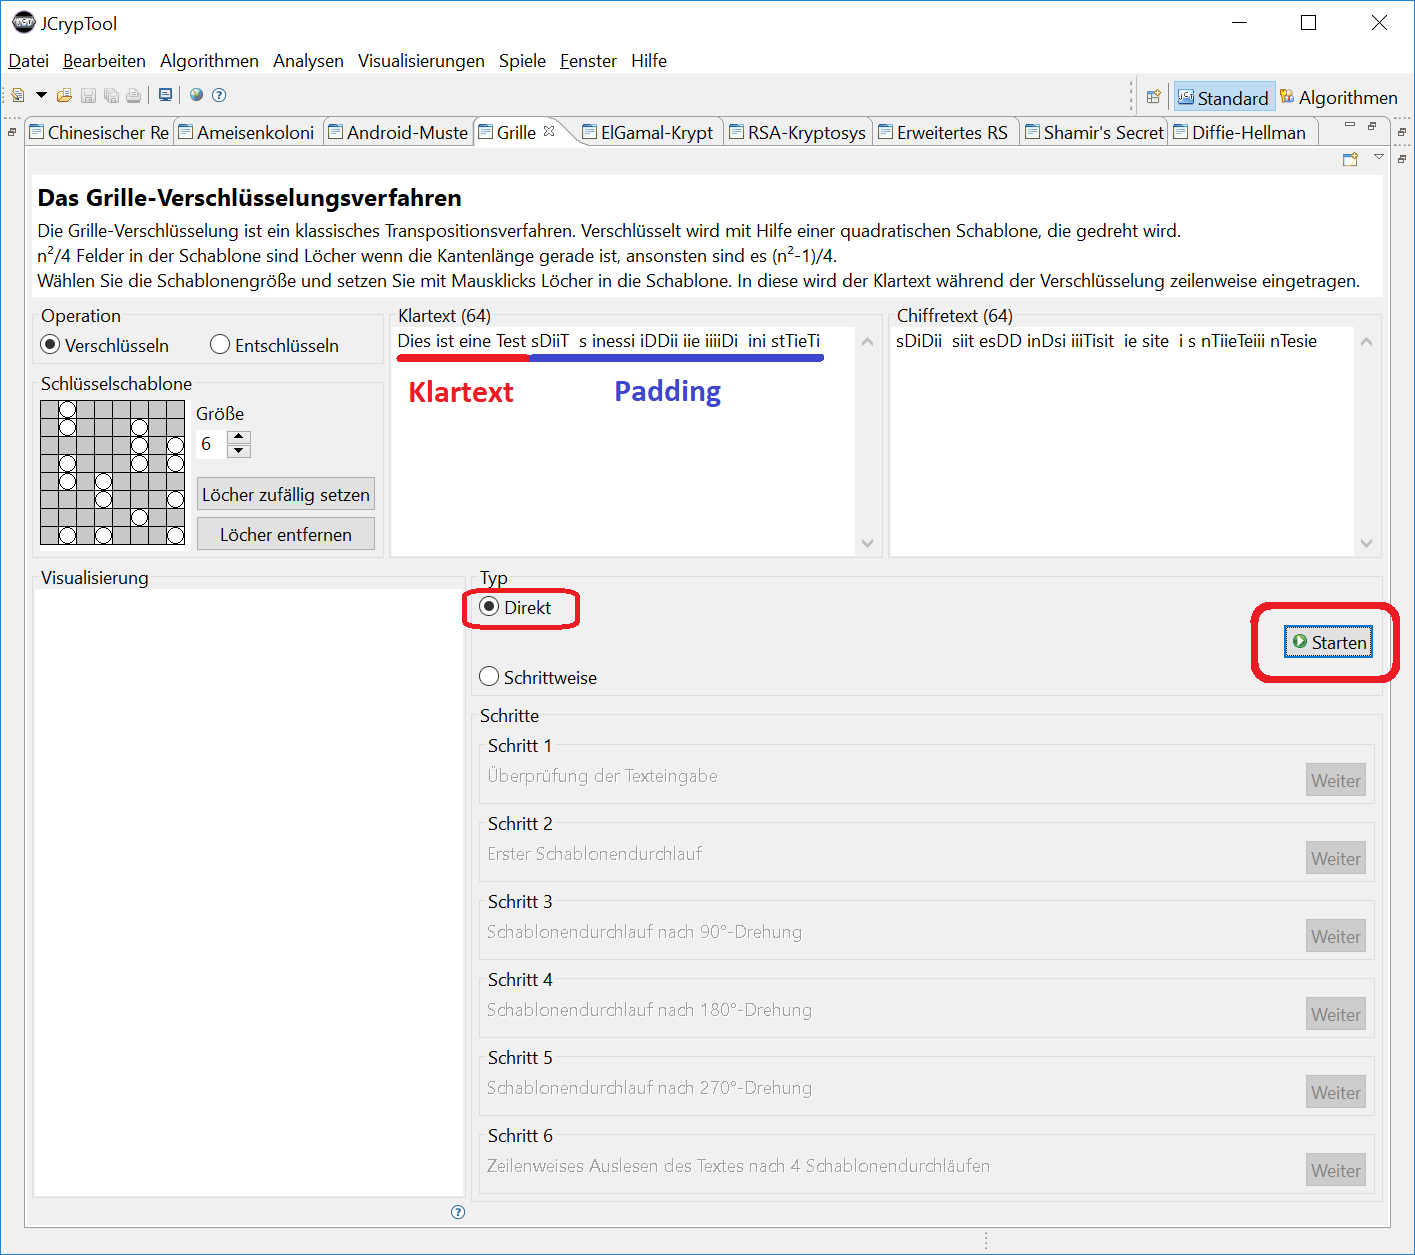
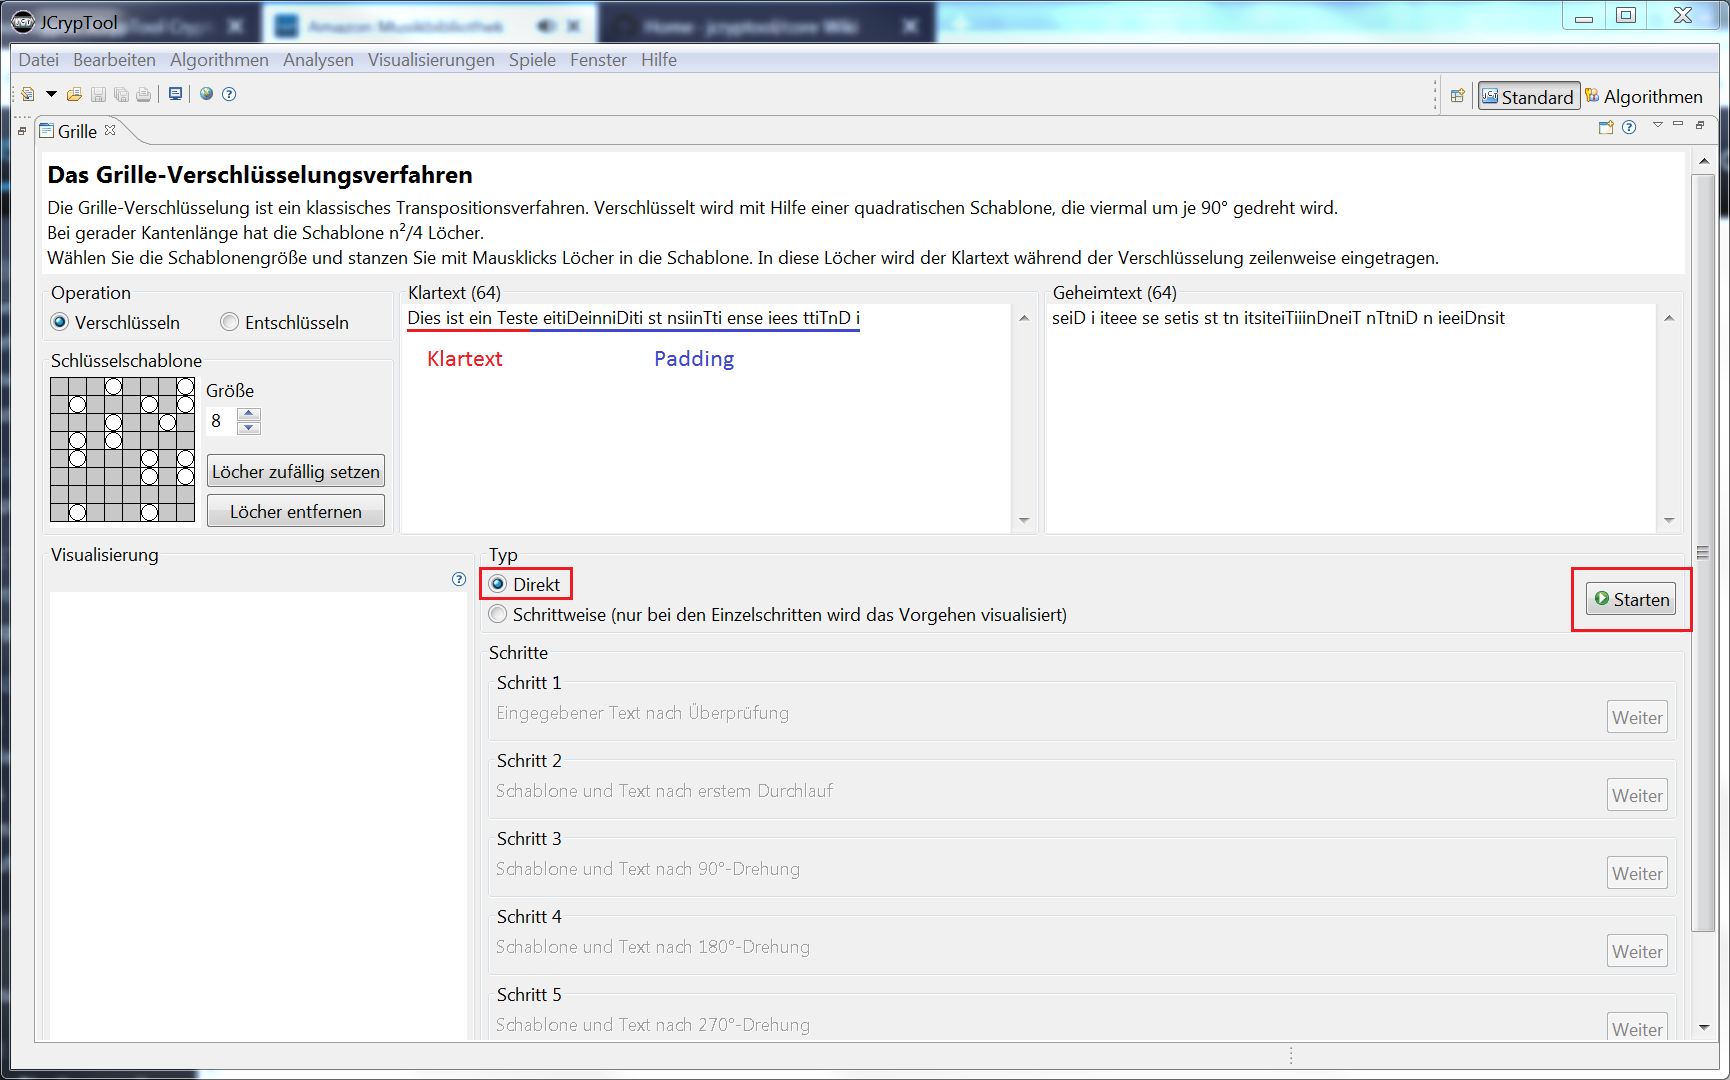
Content of the online help adapted to the screenshots (de/en)
Removed a mistake in the online help.

Changed region(s): [[0.0, 0.0, 1.0, 1.0]]

diff --git a/org.jcryptool.visual.grille/nl/de/content/index.html b/org.jcryptool.visual.grille/nl/de/content/index.html
@@ -30,21 +30,21 @@
 
 <h3>Bedienung</h3>
 
-<u><b>1) Schnell zum Verschlüsselungsergebnis</b></u>
-<p>Wenn man die Standardeinstellung für Größe und Verteilung der Löcher in der Schablone auf den initialen Werten lässt, kann man direkt den Klartext eingeben. Klickt man nun auf den Button "Starten", sieht man im Klartextfeld den gepaddeten Text hinter dem eigentlichen Klartext und im Geheimtext-Feld das verschlüsselter Ergebnis.</p>
-<p><img src="direct.png" width="700" height="464" alt="Layout der Benutzeroberfläche bei driekter Analyse"></p>
-<u><b>2) Schrittweises Vorgehen</b></u>
-<p>Im folgenden Beispiel wurde die Größe auf 8 erhöht und dann der Button "Löcher zufällig setzen" gedrückt. Wieder wurde als Klartext "Dies ist ein Test" gewählt. Vor dem Drücken des Buttons "Starten" wurde der Typ (Vorgehensweise) auf "Schrittweise" gesetzt.</p>
+<h4>1) Schnell zum Verschlüsselungsergebnis</h4>
+<p>Wenn man die Standardeinstellung für Größe und Verteilung der Löcher in der Schablone auf den initialen Werten lässt, kann man direkt den Klartext eingeben. Klickt man nun auf den Button "Starten", sieht man im Klartextfeld den gepaddeten Text hinter dem eigentlichen Klartext und im Geheimtext-Feld das verschlüsselte Ergebnis.</p>
+<p><img src="direct.png" width="700" height="437" alt="Layout der Benutzeroberfläche bei driekter Analyse"></p>
+<h4>2) Schrittweises Vorgehen</h4>
+<p>Im folgenden Beispiel wurde die Größe der Schablone auf 8 erhöht und dann der Button "Löcher zufällig setzen" gedrückt. Wieder wurde als Klartext "Dies ist ein Test" gewählt. Vor dem Drücken des Buttons "Starten" wurde der Typ (Vorgehensweise) auf "Schrittweise" gesetzt.</p>
 <p>(1) Nach dem Klick auf "Starten", werden links in der Gruppierung "Visualisierung" das Padding und seine Länge (47) angezeigt. Zusammen mit dem Klartext der Länge 17 ergeben sich 64 Byte.</p>
-<p><img src="type.png" width="700" height="470" alt="Layout der Benutzeroberfläche bei Auswahl des Typs"></p>
-<p>(2) Nach dem Klick auf "Weiter" in Schritt 1, werden links in der Gruppierung "Visualisierung" die ersten 16 Zeichen verteilt – direkt erkennen kann man nur 13 rote Buchstaben, denn die 3 verteilten Blanks sieht man nicht.</p>
-<p><img src="step2.png" width="700" height="470" alt="Layout der Benutzeroberfläche bei Schritt 2"></p>
-<p>Die blaune Linie zeigt das Loch in der Schablone und den zugehörigen Buchstaben auf dem darunter liegenden Papier.</p>
-<p>(3) Nach dem Klick auf "Weiter" in Schritt 2, werden links in der Gruppierung "Visualisierung" die nächsten 16 Zeichen verteilt (diesmal schwarz dargestellt).</p>
-<p><img src="step3.png" width="700" height="470" alt="Layout der Benutzeroberfläche bei Schritt 3"></p>
+<p><img src="type.png" width="700" height="437" alt="Layout der Benutzeroberfläche bei Auswahl des Typs"></p>
+<p>(2) Nach dem Klick auf "Weiter" in Schritt 1, werden links in der Gruppierung "Visualisierung" die ersten 16 Zeichen verteilt – direkt erkennen kann man nur 13 rote Buchstaben, denn die 3 verteilten Leerzeichen sieht man nicht.</p>
+<p><img src="step2.png" width="700" height="437" alt="Layout der Benutzeroberfläche bei Schritt 2"></p>
+<p>Die blaue Linie zeigt das Loch in der Schablone und den zugehörigen Buchstaben auf dem darunter liegenden Papier.</p>
+<p>(3) Nach dem Klick auf "Weiter" in Schritt 2, werden links in der Gruppierung "Visualisierung" die nächsten 16 Zeichen verteilt (wieder rot dargestellt).</p>
+<p><img src="step3.png" width="700" height="437" alt="Layout der Benutzeroberfläche bei Schritt 3"></p>
 <p>Die Schlüsselschablone oben wird mitgedreht angezeigt.</p>
-<p>(4) Am Ende (nach Drücken von "Weiter" in Schritt 6) sieht man den fertigen Geheimtext, der zeilenweise aus dem unter der Schablone liegenden Papier ausgelesen wird.</p>
-<p><img src="finish.png" width="700" height="470" alt="Layout der Benutzeroberfläche bei Schritt 5"></p>
+<p>(4) Am Ende sieht man den fertigen Geheimtext, der zeilenweise aus dem unter der Schablone liegenden Papier ausgelesen wird.</p>
+<p><img src="finish.png" width="700" height="437" alt="Layout der Benutzeroberfläche bei Schritt 5"></p>
 
 <h3>Bemerkung</h3>
 <p>Wenn Sie nochmal auf "Starten" klicken, geht es von vorne los.</p>

diff --git a/org.jcryptool.visual.grille/nl/en/content/index.html b/org.jcryptool.visual.grille/nl/en/content/index.html
@@ -30,20 +30,20 @@
 
 <h3>Handling of the plugin</h3>
 
-<u><b>1) Quickly to the encryption result</b></u>
+<h4>1) Quickly to the encryption result</h4>
 <p>If you leave the standard settings for size and distribution of the holes in the grille to the initial values, you can enter the plaintext directly. If you now click on the "Start" button, you will see the padded text behind the actual plaintext in the plaintext field, and the encrypted result in the ciphertext field.</p>
-<p><img src="direct.png" alt="Layout der Benutzeroberfläche bei driekter Analyse"></p>
-<u><b>2) Step-by-step procedure</b></u>
-<p>In the following example, the size was increased to 8 and the button "Set holes randomly" was pressed. Again, the plaintext "This is a test" was selected. Before pressing the "Start" button, the type (procedure) was set to "Stepwise".</p>
-<p>(1) After clicking on "Start", the padding and its length (47) are displayed on the left in the grouping "Visualization". Together with the plaintext of length 17, this results in 64 bytes.</p>
-<p><img src="type.png" alt="Layout der Benutzeroberfläche bei Auswahl des Typs"></p>
-<p>(2) After clicking on "Next" in step 1, the first 16 characters are distributed on the left in the grouping "Visualization" – directly you can only recognize 13 red letters, because the 3 distributed blanks are not visible.</p>
-<p><img src="step2.png" alt="Layout der Benutzeroberfläche bei Schritt 2"></p>
+<p><img src="direct.png" width="700" height="64" alt="Layout der Benutzeroberfläche bei driekter Analyse"></p>
+<h4>2) Step-by-step procedure</h4>
+<p>In the following example the button "Set holes randomly" was pressed. The plaintext "This is an example." was selected. Before pressing the "Start" button, the type (procedure) was set to "Stepwise".</p>
+<p>(1) After clicking on "Start", the padding and its length (17) are displayed on the left in the grouping "Visualization". Together with the plaintext of length 19, this results in 36 bytes.</p>
+<p><img src="type.png" width="700" height="470" alt="Layout der Benutzeroberfläche bei Auswahl des Typs"></p>
+<p>(2) After clicking on "Next" in step 1, the first 9 characters are distributed on the left in the grouping "Visualization" – directly you can only recognize 7 red letters, because the 2 distributed blanks are not visible.</p>
+<p><img src="step2.png" width="700" height="470" alt="Layout der Benutzeroberfläche bei Schritt 2"></p>
 <p>The blue line shows the hole in the grille and the corresponding letter on the underlying paper.</p>
-<p>(3) After clicking on "Next" in step 2, the next 16 characters are distributed on the left in the grouping "Visualization" (this time in black).</p>
-<p><img src="step3.png" alt="Layout der Benutzeroberfläche bei Schritt 3"></p>
+<p>(3) After clicking on "Next" in step 2, the next 9 characters are distributed on the left in the grouping "Visualization" (again in red).</p>
+<p><img src="step3.png" width="700" height="470" alt="Layout der Benutzeroberfläche bei Schritt 3"></p>
 <p>The key grille at the top is shown rotated.</p>
-<p>(4) At the end (after pressing "Next" in step 6) you can see the finished ciphertext, which is read out line by line from the paper under the template.</p>
+<p>(4) At the end you can see the finished ciphertext, which is read out line by line from the paper under the template.</p>
 <p><img src="finish.png" alt="Layout der Benutzeroberfläche bei Schritt 5"></p>
 
 <h3>Remark</h3>
